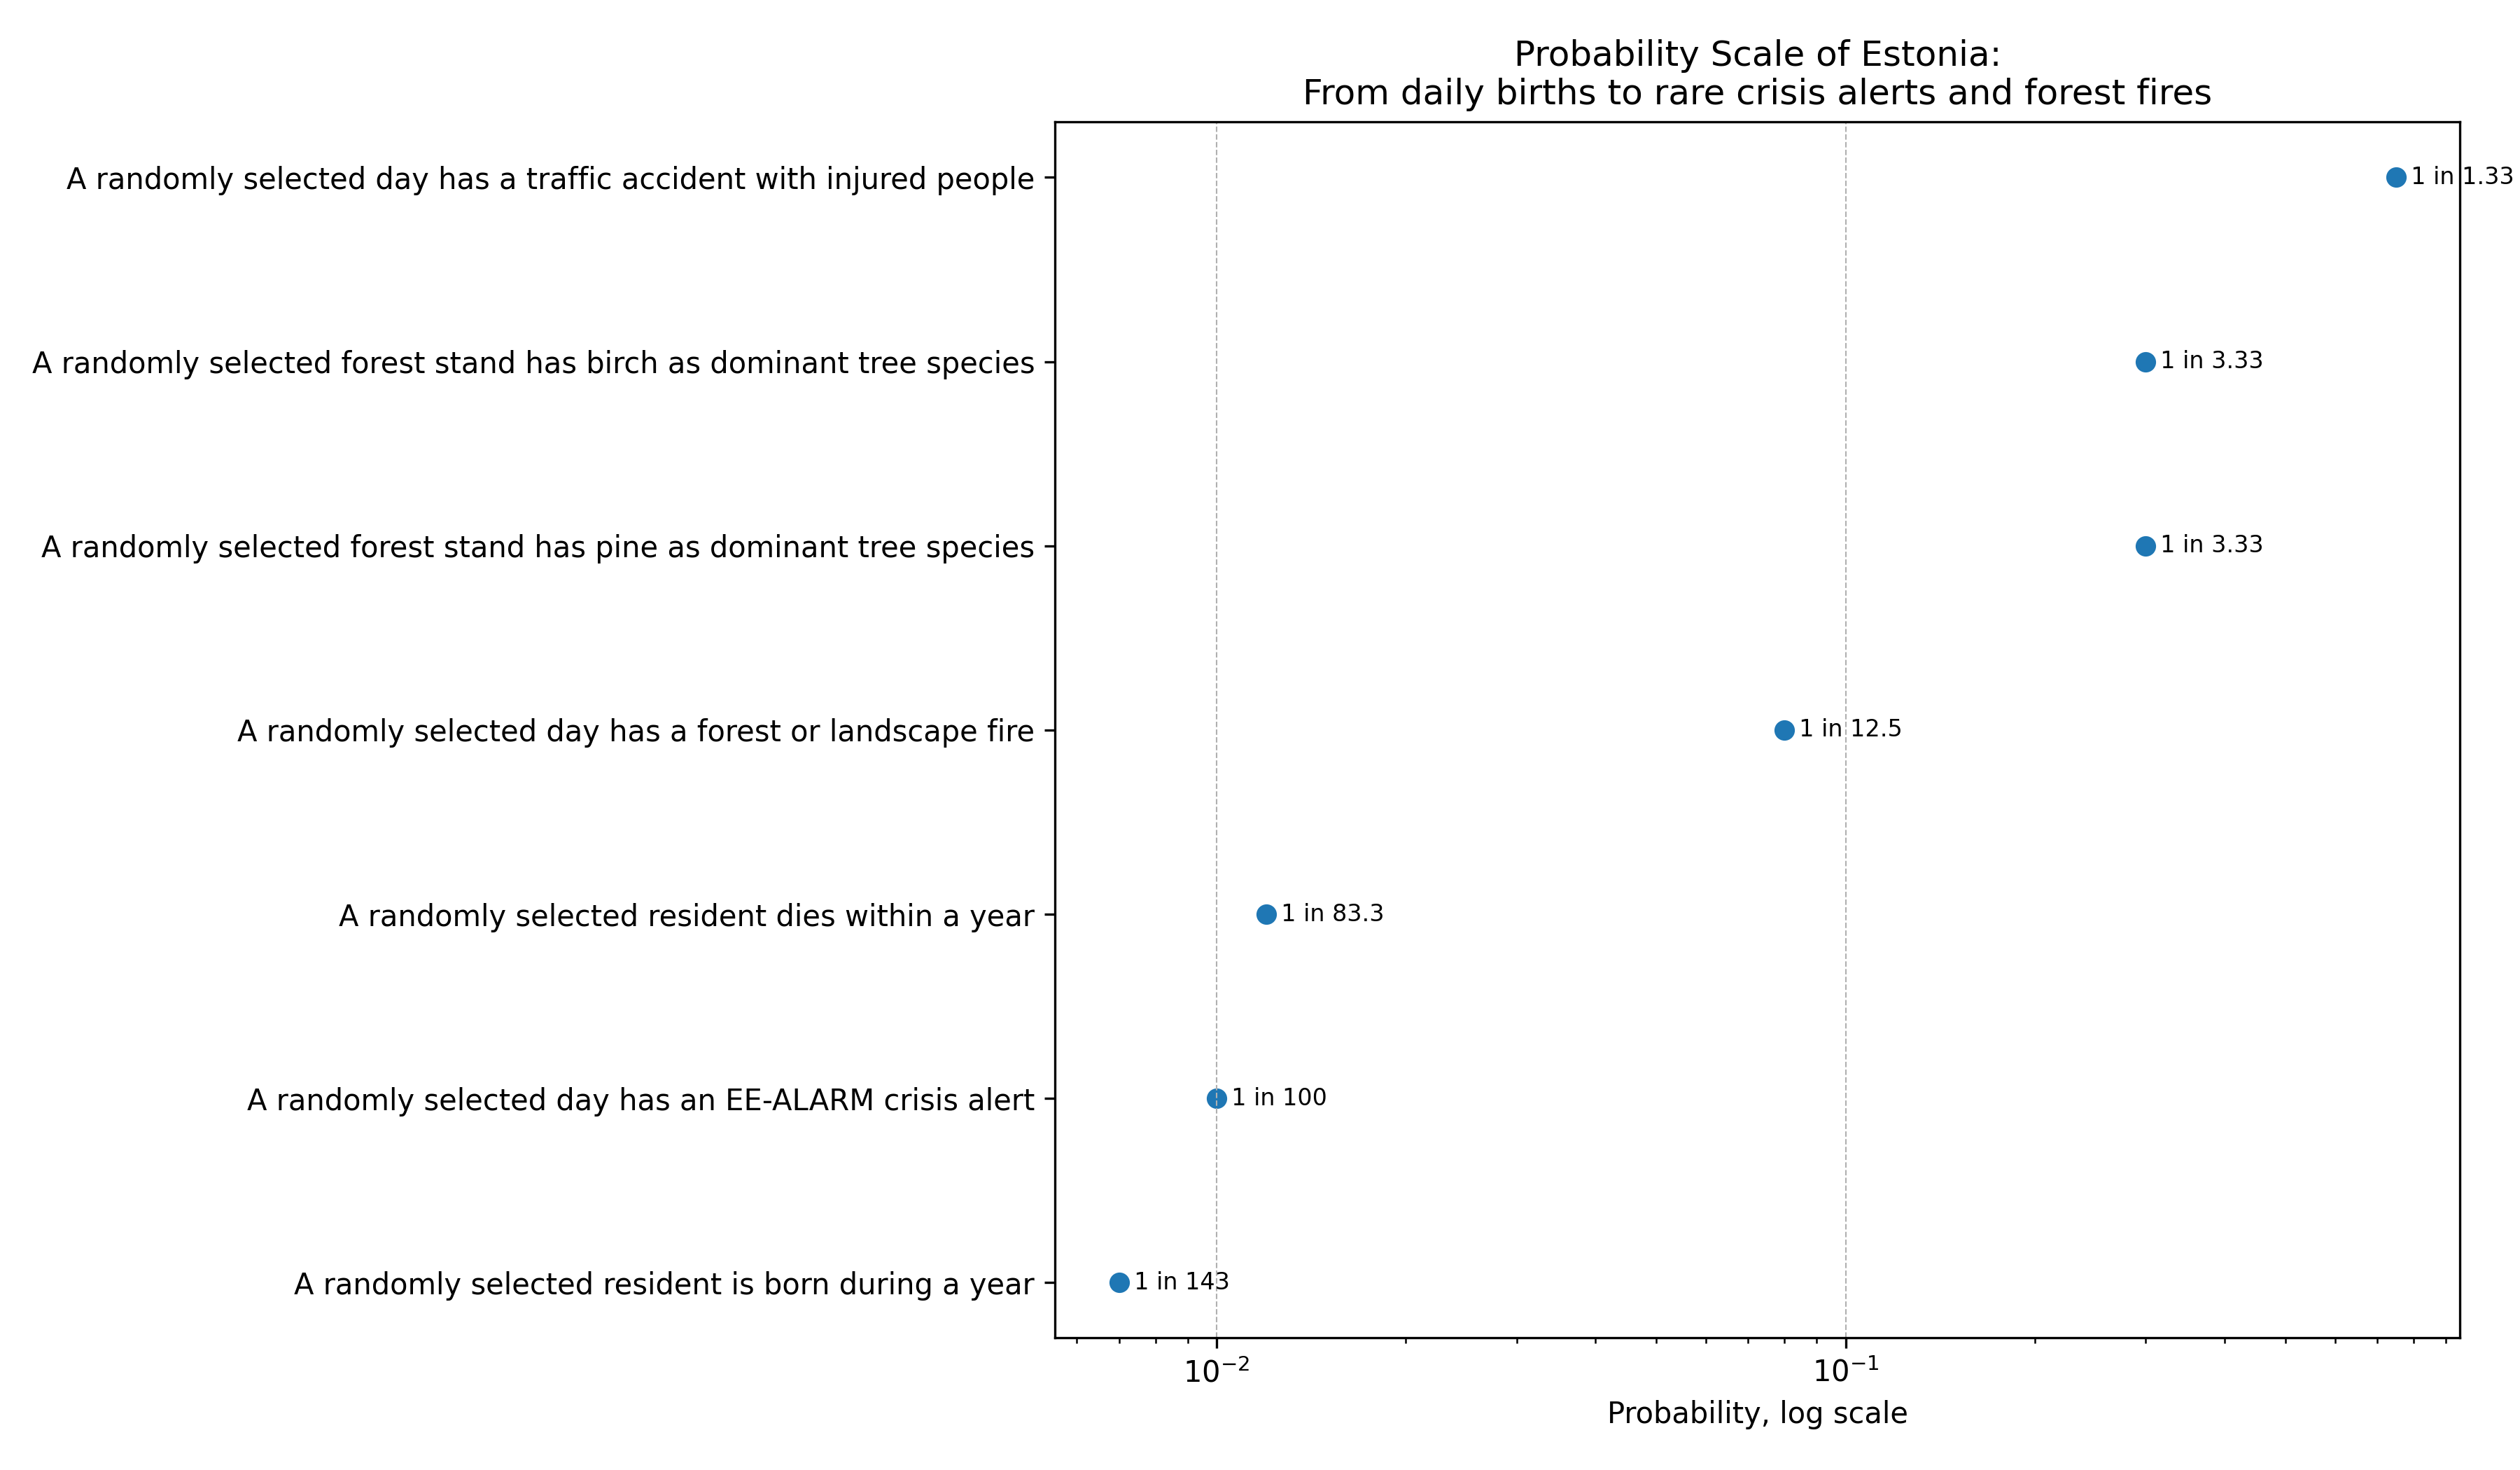
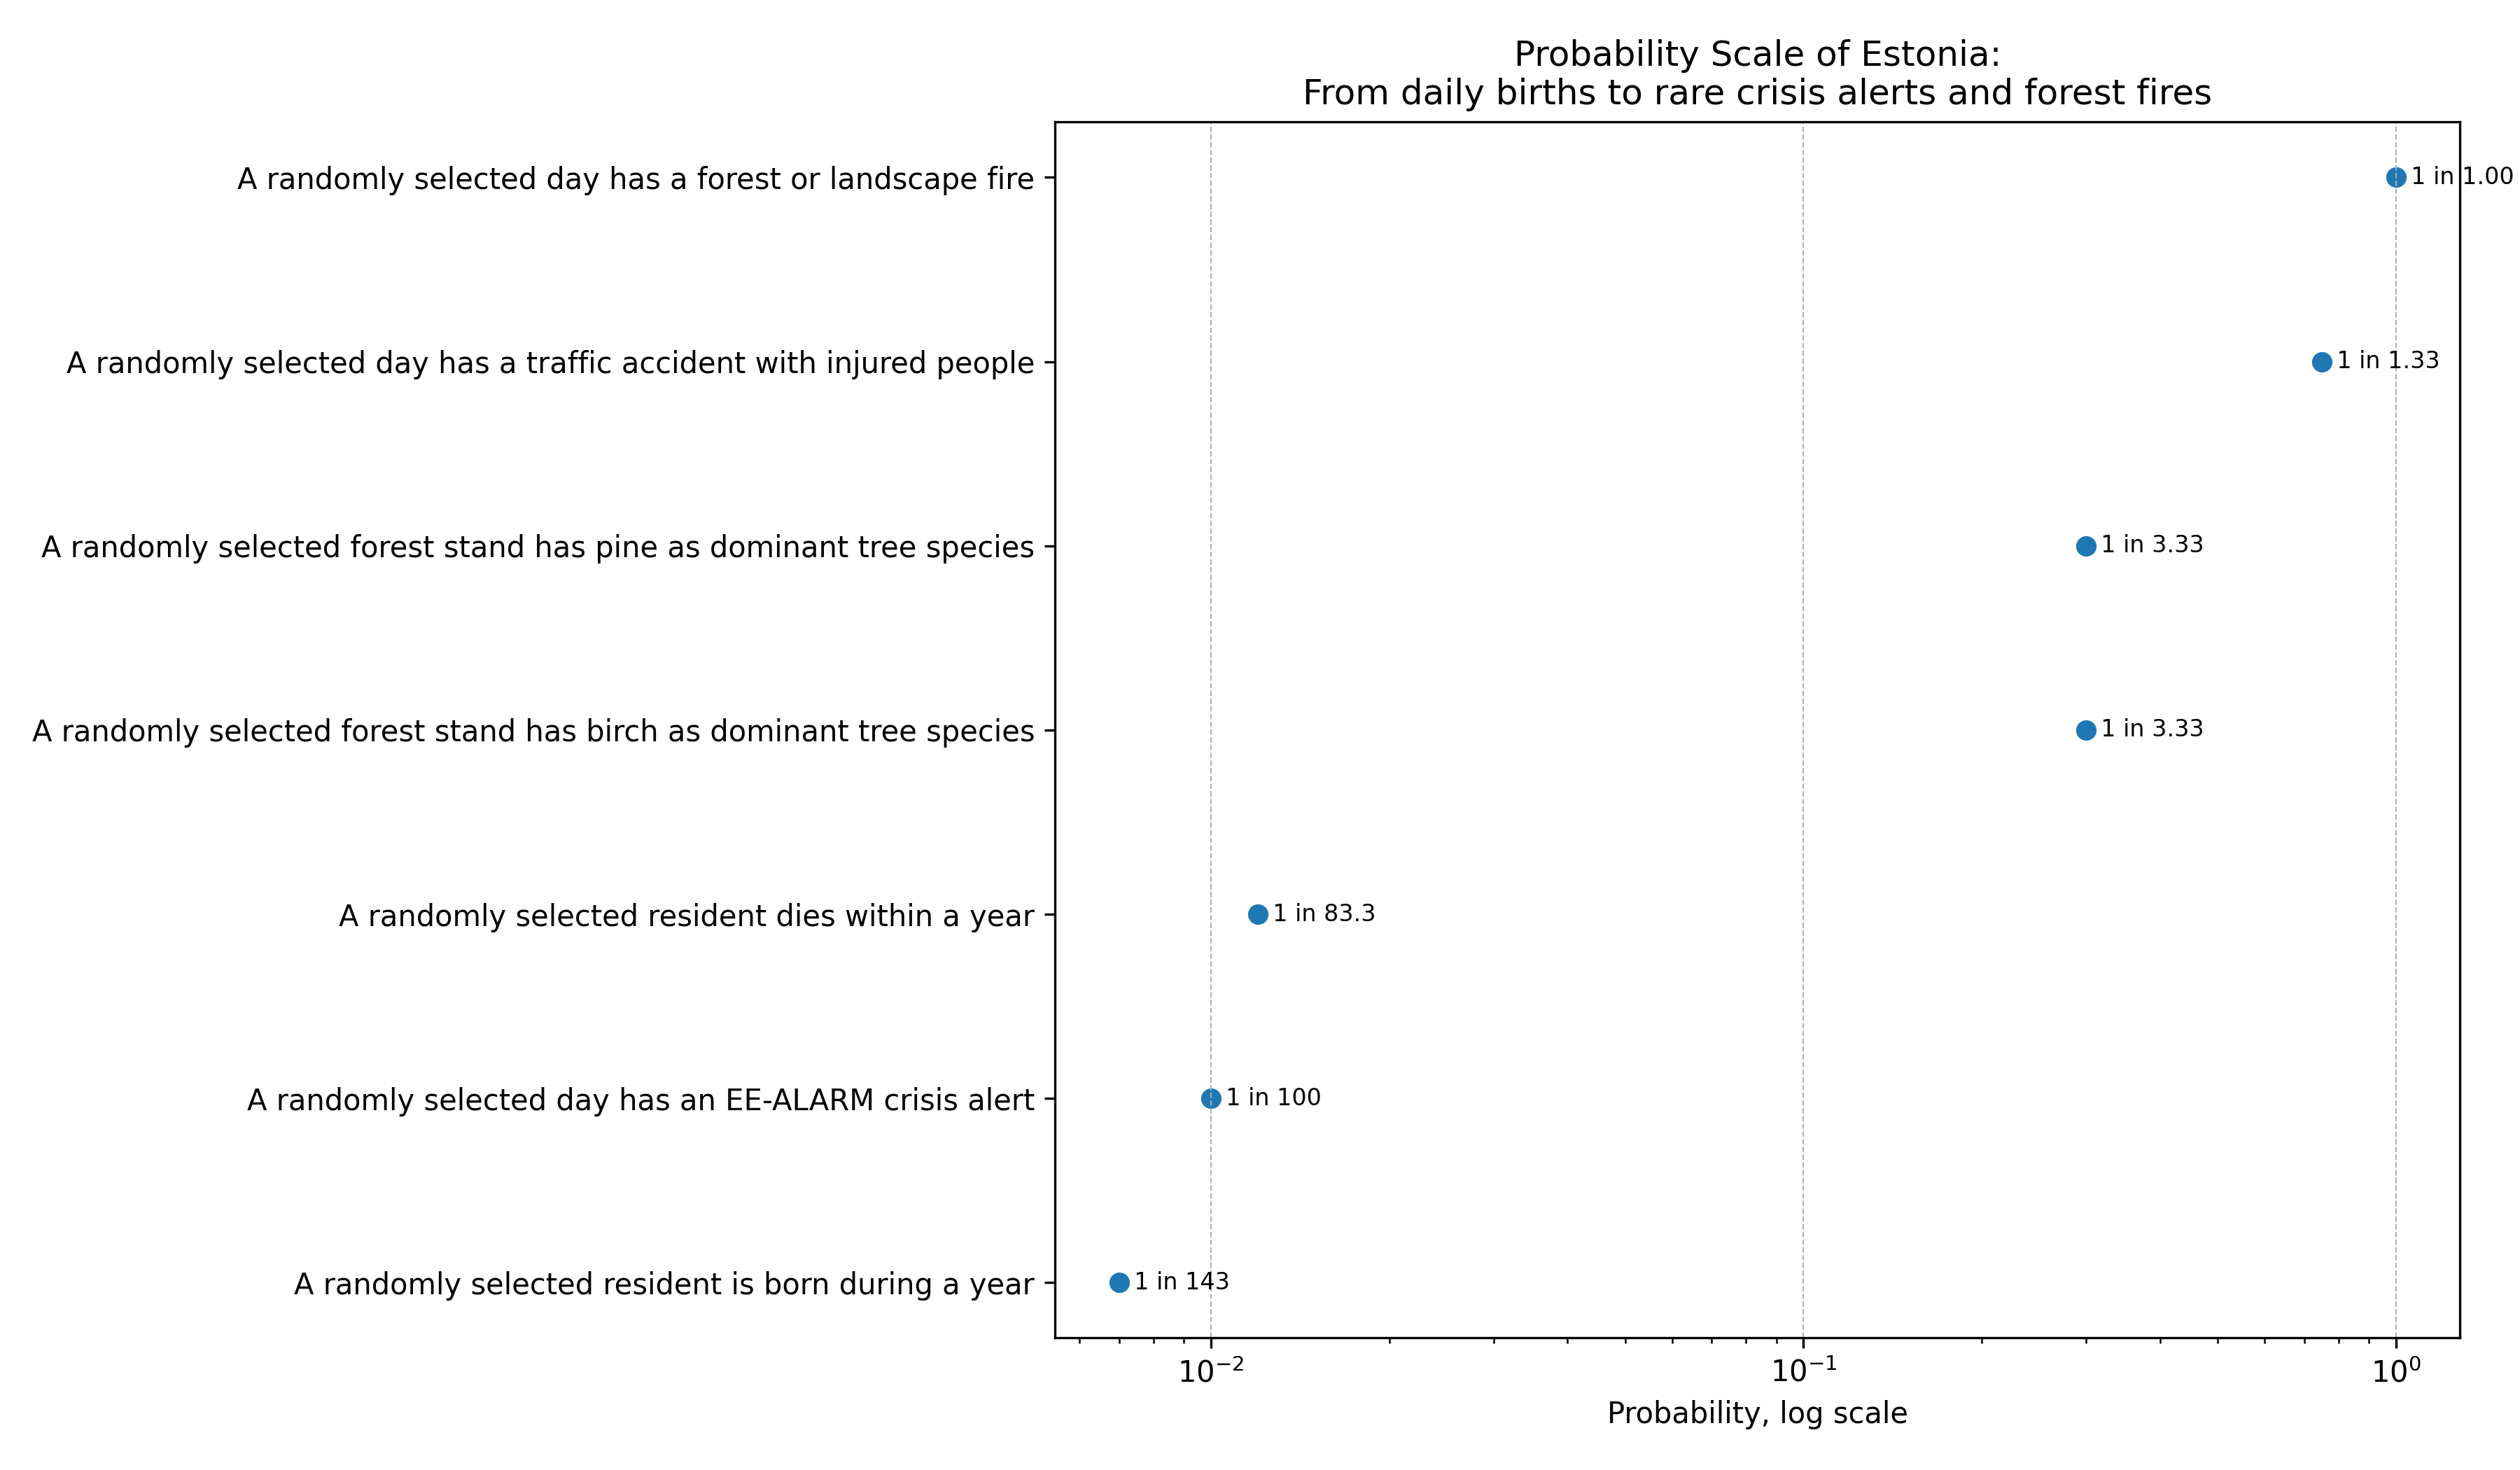
calculate forest fire probability from data

diff --git a/src/probability_scale/forest_fire.py b/src/probability_scale/forest_fire.py
@@ -1,0 +1,150 @@
+from dataclasses import dataclass
+from pathlib import Path
+
+import pandas as pd
+
+from probability_scale.config import (
+    FOREST_FIRE_CURRENT_YEAR_RAW_PATH,
+    FOREST_FIRE_HISTORY_RAW_PATH,
+)
+
+
+@dataclass
+class ForestFireStats:
+    event_count: int
+    days_with_event: int
+    total_days_observed: int
+    start_date: str
+    end_date: str
+    probability: float
+
+    @property
+    def one_in_x(self) -> float:
+        return 1 / self.probability
+
+
+def read_forest_fire_csv(path: Path) -> pd.DataFrame:
+    """
+    Read one forest fire CSV file.
+
+    The separator and encoding are handled flexibly because public CSV files
+    may use different formats.
+    """
+
+    try:
+        return pd.read_csv(path, sep=None, engine="python", encoding="utf-8-sig")
+    except UnicodeDecodeError:
+        return pd.read_csv(path, sep=None, engine="python", encoding="cp1257")
+
+
+def normalize_column_name(column_name: str) -> str:
+    """
+    Normalize Estonian column names for easier matching.
+    """
+
+    return (
+        column_name.lower()
+        .replace("ä", "a")
+        .replace("ö", "o")
+        .replace("ü", "u")
+        .replace("õ", "o")
+        .replace(" ", "_")
+    )
+
+
+def find_date_column(df: pd.DataFrame) -> str:
+    """
+    Find the most likely date column in the forest fire dataset.
+    """
+
+    normalized_columns = {
+        column: normalize_column_name(column)
+        for column in df.columns
+    }
+
+    date_keywords = [
+        "kuupaev",
+        "kuup",
+        "aeg",
+        "date",
+        "algus",
+        "toimumis",
+        "syndmus",
+        "sundmus",
+    ]
+
+    for original_column, normalized_column in normalized_columns.items():
+        if any(keyword in normalized_column for keyword in date_keywords):
+            return original_column
+
+    raise ValueError(
+        "Could not detect date column. Available columns: "
+        f"{list(df.columns)}"
+    )
+
+
+def load_forest_fire_data() -> pd.DataFrame:
+    """
+    Load and combine forest and landscape fire raw CSV files.
+    """
+
+    paths = [
+        FOREST_FIRE_HISTORY_RAW_PATH,
+        FOREST_FIRE_CURRENT_YEAR_RAW_PATH,
+    ]
+
+    missing_paths = [path for path in paths if not path.exists()]
+
+    if missing_paths:
+        raise FileNotFoundError(
+            "Missing forest fire raw data files. Run "
+            "`python scripts/fetch_data.py` first. Missing files: "
+            f"{missing_paths}"
+        )
+
+    frames = [read_forest_fire_csv(path) for path in paths]
+
+    df = pd.concat(frames, ignore_index=True)
+    df = df.drop_duplicates()
+
+    return df
+
+
+def calculate_forest_fire_stats() -> ForestFireStats:
+    """
+    Calculate the probability that a randomly selected observed day has
+    at least one forest or landscape fire.
+    """
+
+    df = load_forest_fire_data()
+
+    date_column = find_date_column(df)
+
+    dates = pd.to_datetime(
+        df[date_column],
+        errors="coerce",
+        dayfirst=True,
+    ).dt.date
+
+    dates = dates.dropna()
+
+    if dates.empty:
+        raise ValueError("No valid dates found in forest fire data.")
+
+    start_date = dates.min()
+    end_date = dates.max()
+
+    total_days_observed = (end_date - start_date).days + 1
+    days_with_event = dates.nunique()
+    event_count = len(dates)
+
+    probability = days_with_event / total_days_observed
+
+    return ForestFireStats(
+        event_count=event_count,
+        days_with_event=days_with_event,
+        total_days_observed=total_days_observed,
+        start_date=str(start_date),
+        end_date=str(end_date),
+        probability=probability,
+    )

diff --git a/src/probability_scale/transform.py b/src/probability_scale/transform.py
@@ -1,4 +1,5 @@
 from dataclasses import dataclass
+from probability_scale.forest_fire import calculate_forest_fire_stats
 
 import pandas as pd
 
@@ -29,6 +30,29 @@ class ProbabilityEvent:
 
         return 1 / self.probability
 
+def build_forest_fire_event() -> ProbabilityEvent:
+    """
+    Build a probability event from real forest and landscape fire data.
+    """
+
+    stats = calculate_forest_fire_stats()
+
+    return ProbabilityEvent(
+        event="A randomly selected day has a forest or landscape fire",
+        category="Nature",
+        probability=stats.probability,
+        probability_type="daily_event_probability",
+        interpretation=f"About 1 in {stats.one_in_x:.1f} days",
+        source_name="Forest and landscape fires",
+        source_url="https://andmed.eesti.ee/datasets/metsa-ja-maastikutulekahjud",
+        notes=(
+            "Calculated from downloaded forest and landscape fire data. "
+            f"Observed period: {stats.start_date} to {stats.end_date}. "
+            f"Days with at least one event: {stats.days_with_event}. "
+            f"Total observed days: {stats.total_days_observed}. "
+            f"Total event records: {stats.event_count}."
+        ),
+    )
 
 def build_example_events() -> list[ProbabilityEvent]:
     """
@@ -89,16 +113,9 @@ def build_example_events() -> list[ProbabilityEvent]:
             source_url="https://andmed.eesti.ee/datasets/inimkannatanutega-liiklusonnetuste-andmed",
             notes="Example value for first MVP plot",
         ),
-        ProbabilityEvent(
-            event="A randomly selected day has a forest or landscape fire",
-            category="Nature",
-            probability=0.08,
-            probability_type="daily_event_probability",
-            interpretation="About 1 in 12.5 days",
-            source_name="Forest and landscape fires",
-            source_url="https://andmed.eesti.ee/datasets/metsa-ja-maastikutulekahjud",
-            notes="Example value for first MVP plot",
-        ),
+        
+        build_forest_fire_event(),
+
         ProbabilityEvent(
             event="A randomly selected day has an EE-ALARM crisis alert",
             category="Crisis",